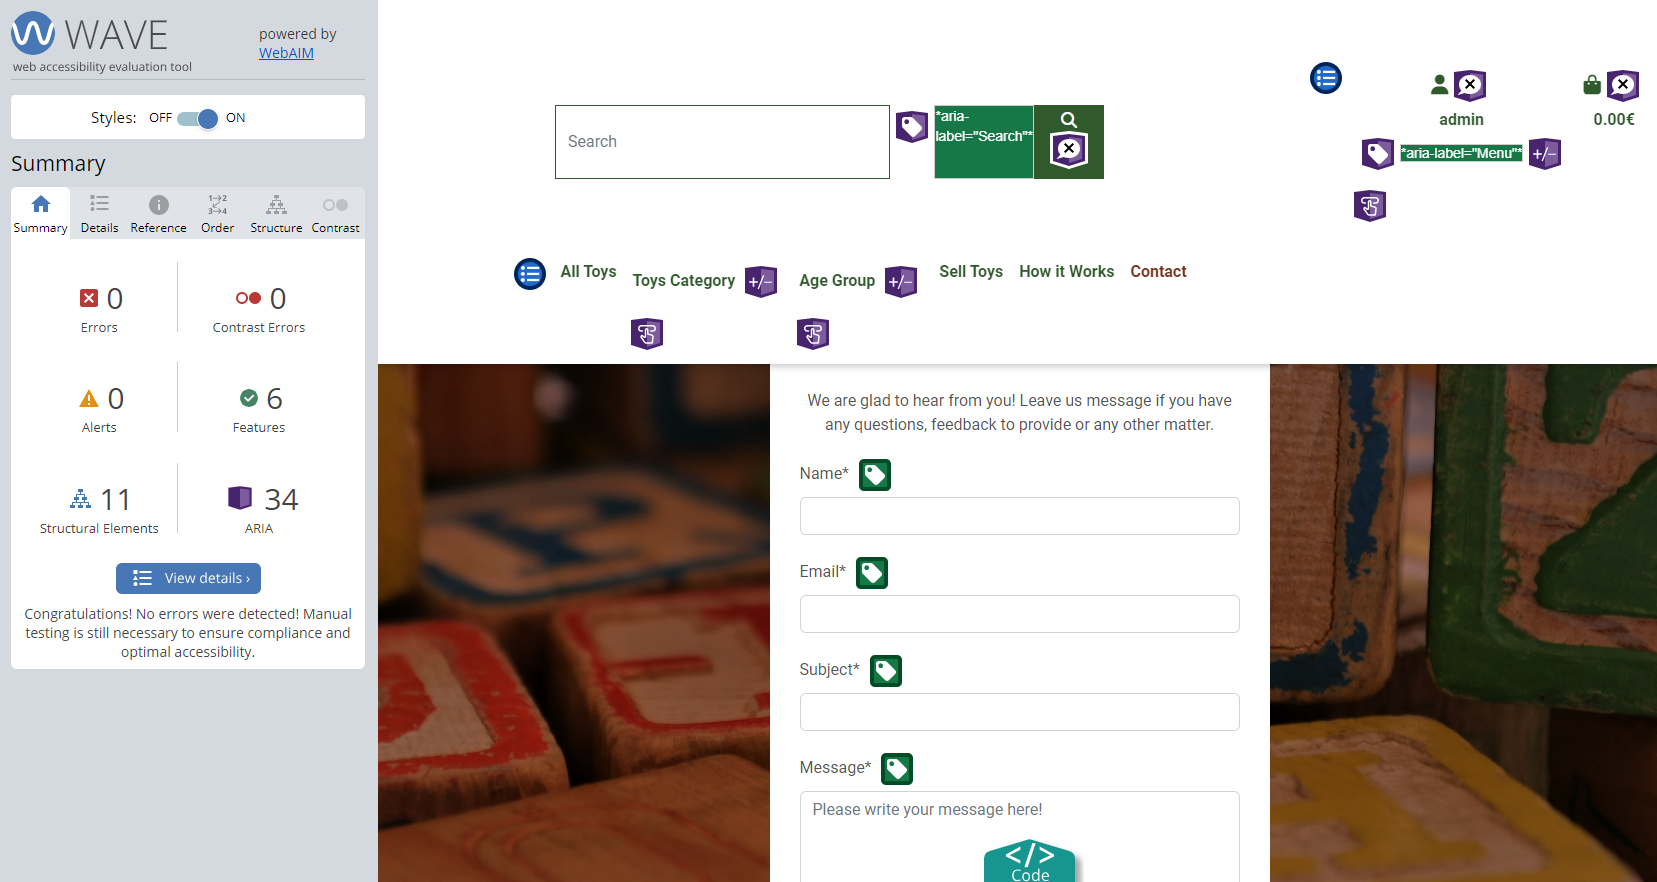
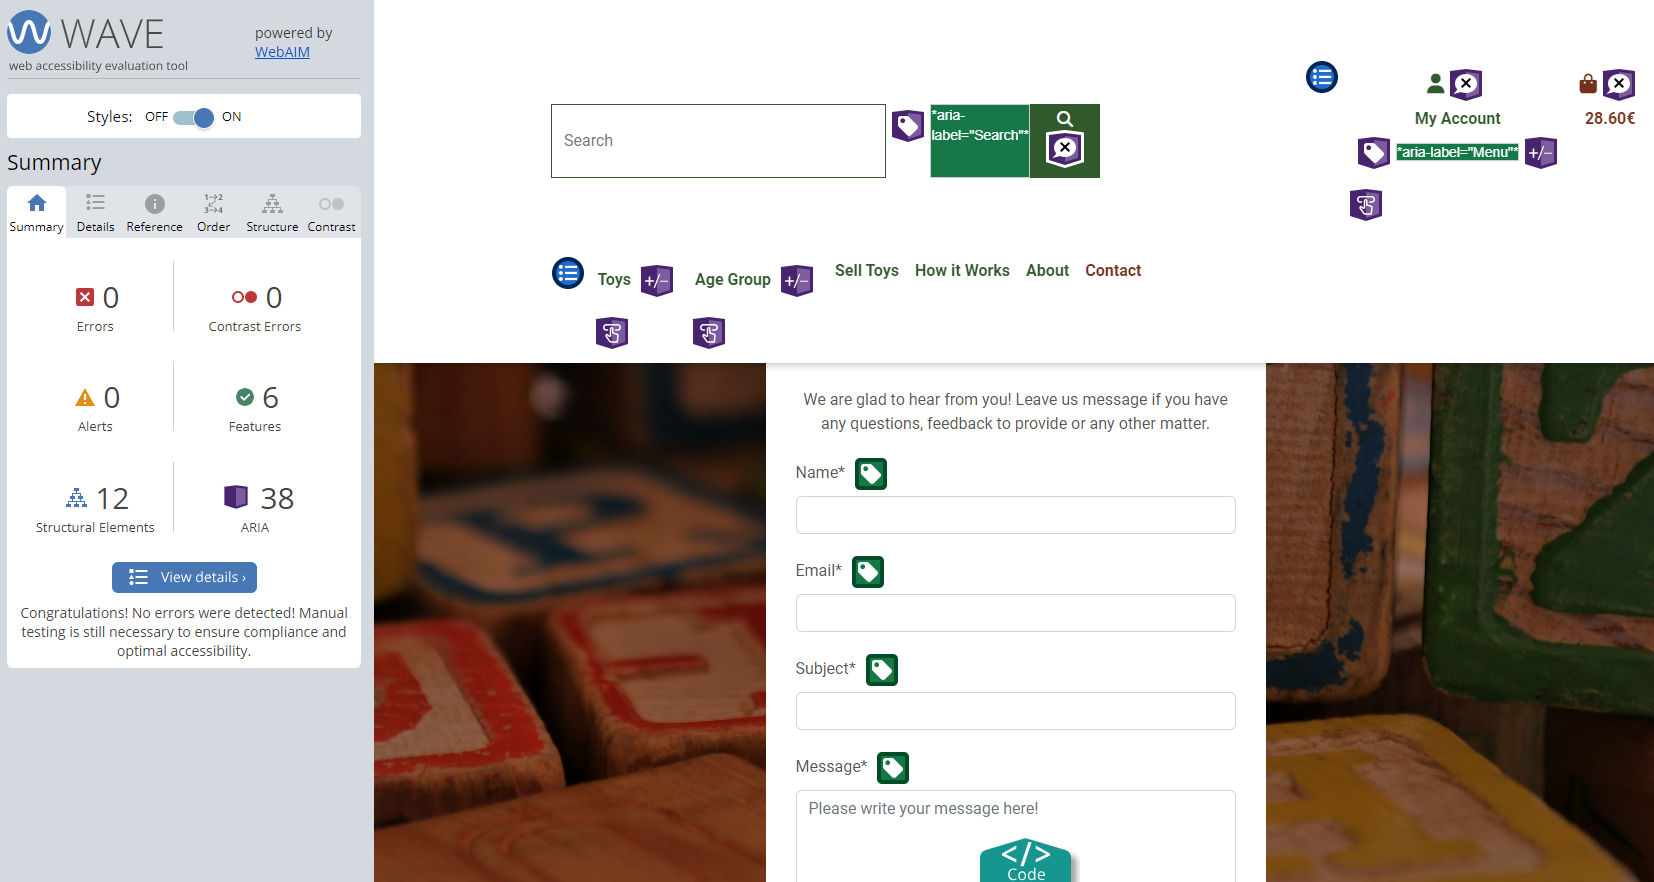
docs: document validation of contact and review pages

diff --git a/README.md b/README.md
@@ -158,6 +158,7 @@ The loopIToy project was developed using python Django framework. The project co
 The user inputs from all forms are stored in elephantSQL cloud-based database. There are seven database tables:
 - `toys_toys` stores information about each toy.
 - `toys_category` contains all toy categories.
+- `toys_brand` stores toys brand with homepage url.
 - `checkout_order` keeps order information and delivery information.
 - `checkout_orderlineitem` contains information about each toy in the order.
 - `profiles_userprofile` stores information about users, mainly default delivery information.
@@ -186,10 +187,13 @@ The final image by [Susan Holt Sumpson](https://unsplash.com/@shs521?utm_content
 The features of the web page were planned using Agile methodology to ensure Minimum Value Product and to address planned User Stories. The core features of this django-base webpage includes CRUD functionality for both Site Users and Site Owner, so that users can create, read, update and delete records. In additon, messages are displayed after each CRUD activity.
 
 The sites of e-shop are categorized into several groups:
-- **Landing & Informative Pages** includes Landing and How it Works Pages.
-- **Account & Profile Pages** includes all sites related to allauth app, i.e. authentication app, or profile app.
-- **Toys Pages** includes all pages related to toy app, e.g. overview of toys, toy detail.
-- **Purchasing Pages** includes both Shopping Bag and Checkout Pages. 
+- **Landing & Informative Pages** include Landing and How it Works Pages.
+- **Account & Profile Pages** include all sites related to allauth app, i.e. authentication app, or profile app.
+- **Toys Pages** include all pages related to toy app, e.g. overview of toys, toy detail.
+- **Purchasing Pages** include both Shopping Bag and Checkout Pages. 
+- **Hidden Pages and Polices** include all error hidden pages and pages with various polices, terms and conditions.
+- **Review Pages** include pages related to providing and presenting customer feedback
+- **Contact Page** includes contacting form.
 
 The entire web page is also designed to be responsive to ensure that the e-shop is properly displayed on different devices (e.g. a mobile, a desktop). The designed follows common best practice of e-shop development. Each site has mutual components, i.e. header with a navigation menu and footer. The mutual components ensure that the user to easily navigates through the content of the e-shop.
 
@@ -210,9 +214,8 @@ The entire web page is also designed to be responsive to ensure that the e-shop 
 
 - **How It Works Page** outlines the core sell procedure and offers users to register for selling toys.![How It Works Page](./docs/features/feature_how_it_works.PNG) 
 
-- **Contact Page** serves for contacting Site Owner and it displays the contact form. After sending a message a thank you page is displayed with the button to return home. ![Contact](./docs/features/features_contact.PNG)
-
 ### Account & Profile Pages
+
 The core authentication pages includes:
 - **Login Page** contains a form to log in via username or email into to the platform. Moreover, a user can choose to remember the login data. ![Login](./docs/features/feature_account_login.PNG)
 - **Sign Up Page** contains a form to create an account. User have to register using both username and email.![Sign Up](./docs/features/feature_account_register.PNG)
@@ -239,19 +242,31 @@ The core authentication pages includes:
 
 - **Checkout - Thank You Page** shows the summary order  with delivery and billing information. User is also informed about receiving the confirmation email. In order to return to Homepage, there is a button. ![Checkout - Thank you](./docs/features/features_checkout_success.png).
 
-### Review Pages
-- **Add Review Page** presents review form to send user opinion. [Add Review](./docs/features/feature_review_add.PNG)
 
 ### Hidden Error & Policy Pages
-- **Hidden Error Pages** displayes the error status code, name and message. In addition, there is a button to return to the landing page. There are three pages implemented for the unexpected situations: Permission denied (`status=403`), Page not found (`status=404`), Server Error (`status=500`). The layout of all hidden pages is the same - it displayes the message code, text and button to return home. ![Hidden Page](./docs/features/feature_hidden_page.PNG).
-- **Policy Pages** displays information about various polices and terms, such as Privacy Policy, Return & Refund, Terms & Conditions. The layout of such pages is the same. ![Polices](./docs/features/feature_polices.PNG)
+
+- **Hidden Error Pages** display the error status code, name and message. In addition, there is a button to return to the landing page. There are three pages implemented for the unexpected situations: Permission denied (`status=403`), Page not found (`status=404`), Server Error (`status=500`). The layout of all hidden pages is the same - it displayes the message code, text and button to return home. ![Hidden Page](./docs/features/feature_hidden_page.PNG).
+- **Policy Pages** display information about various polices and terms, such as Privacy Policy, Return & Refund, Terms & Conditions. The layout of such pages is the same. ![Polices](./docs/features/feature_polices.PNG)
+
+
+
+### Review Pages
+
+- **About Page** presents the idea behind the e-shop, button to send feedback. The page also displays customer feedbacks. ![About](./docs/features/feature_review_about.PNG)
+- **Add Review Page** presents review form to send user opinion. ![Add Review](./docs/features/feature_review_add.PNG)
+
+
+
+### Contact Page
+- **Contact Us Page** serves for contacting Site Owner and it displays the contact form. After sending a message a thank you toast message is displayed. ![Contact](./docs/features/features_contact.PNG)
 
 
 ### Future & Left Features
-- About Us
+- Extending the Site Owner functionality through the e-shop, managing brands, categories, etc.
+- Inhancing Sell Features by including the form to request money. In the form, User can which toys he/she wants to pay. There should be probably a new app and model that stores such information and in addition the bank data to send money.
+- Implementation of sorting functionality.
 - Login with Social Media using allauth.cocialaccount and django.contrib.site apps
-- Unique Form style
-- After sending contact form, user should be redirected to the home page.
+- Unique Form Style and general refactoring to have all views defined as class-based view.
 
 ## Business Model
 loopitoy is B2C type of e-commerce application as it sells second-hand toys. It is a platform which supports circular economy for toys. Customers can both buy and sell toys using secure single payment transactions.
@@ -286,6 +301,8 @@ A newsletter was implemented with MailChimp. The form to subscribe is visible on
 updates, promotions, or other relevant content from loopIToy.
 
 ## Testing & Validation
+The results of testing and validation are presented in the separated document, see [Testing & Validation](https://github.com/brodsa/loopitoy/blob/main/README_testing.md).
+
 
 ### Bugs
 Several bugs were releaved during the development. Bellow, all complex bugs that required more time, searching, trying to be solved:

diff --git a/README_testing.md b/README_testing.md
@@ -40,6 +40,8 @@ All pages were tested in terms of responsivness to ensure that the conent reacts
 | R20 | Terms & Conditions   | Click on Terms & Conditions link in footer. Inspect the webpage via DevTools and listed devices. Test the side for responsiveness and look at the layout.                                                                       | The content of the Terms & Conditions is readable on all listed devices                                                                                                                                                                                                                                    | PASS   |
 | R21 | Return & Refund      | Click on Return & Refund link in footer. Inspect the webpage via DevTools and listed devices. Test the side for responsiveness and look at the layout.                                                                          | The content of the Return & Refund is readable on all listed devices                                                                                                                                                                                                                                       | PASS   |
 | R22 | Hidden Pages         | Extend the url and add /test in the end. Inspect the webpage via DevTools and listed devices. Test the side for responsiveness and look at the layout of the hidden pages                                                       | The content of the Hidden Pages  is readable and fully displayed                                                                                                                                                                                                                                           | PASS   |
+| R23 | About Page         | Go to About in Navigation Menu. Inspect the webpage via DevTools and listed devices. Test the side for responsiveness and look at the layout of text, image, button and review boxes.                                                       | The content of the page is center and displayed in a column on small devices. On large, the picture is shown next to the text. The boxes are in rows.                                                                                                                                                                                                                                           | PASS   |
+| R24 | Add Review Page         | Go to About in Navigation Menu and click on Send Review. Inspect the webpage via DevTools and listed devices. Test the side for responsiveness and look the review form                                                       | The form is centered and readable on all devices.                                                                                                                                                                                                                                           | PASS   |
 
 
 [Back to the content](#testing--validation)
@@ -190,7 +192,7 @@ The webpage was validated from several perspectives:
 
 
 ### HTML 
-The [Nu Html Checker](https://validator.w3.org/nu/) web-based tool by W3 was used to validate the pages of the webpage. The source code of pages was checked directly via text input or  via provided page URL. The validation detected several errors in the snippet code for the newsletter subscribtion. This code was copied directly from [mailchimp](https://us14.admin.mailchimp.com/). The below detailed reports ignore the errors from mailchimp tool:
+The [Nu Html Checker](https://validator.w3.org/nu/) web-based tool by W3 was used to validate the pages of the webpage. The source code of pages was checked directly via text input or  via provided page URL. The validation detected several errors in the snippet code for the newsletter subscribtion. This code was copied directly from [mailchimp](https://us14.admin.mailchimp.com/). The below detailed reports ignore the [errors from mailchimp tool](./docs/testing/html/html_newsletter.PNG):
 
 | Page Group | Page | Report | Results |
 |------------|------|--------|---------|
@@ -215,6 +217,9 @@ The [Nu Html Checker](https://validator.w3.org/nu/) web-based tool by W3 was use
 | | Return & Refund | [On-line Report](https://validator.w3.org/nu/?doc=https%3A%2F%2Floopitoy-2943fdc3b2bc.herokuapp.com%2Freturn-and-refund) | no errors |
 | | Terms & Conditions | [On-line Report](https://validator.w3.org/nu/?doc=https%3A%2F%2Floopitoy-2943fdc3b2bc.herokuapp.com%2Fterms-and-conditions) | no errors |
 | Review | Add Review Page | [Report](./docs/testing/html/html_review_add.PNG)| no errors |
+|  | About & Review Page | [Report](./docs/testing/html/html_review_about.PNG)| no errors |
+|  Contact | Contact Us Page | [Report](./docs/testing/html/html_contact.PNG)| no errors |
+
 
 [Back to the content](#testing--validation)
 
@@ -307,6 +312,8 @@ The chrome extension [WAVE Evaluation Tool](https://chromewebstore.google.com/de
 |  | Detail Toy  Page         | <img src="./docs/testing/wave/wave_toydetail.PNG" alt="wave_toy_detail" width="200"/> | no error |
 |  | Toys Overview  Page         | <img src="./docs/testing/wave/wave_toy_overview.PNG" alt="wave_toy_overview" width="200"/> | no error |
 | Review Pages | Add Review Page         | <img src="./docs/testing/wave/wave_review_add.PNG" alt="wave_review_add" width="200"/> | no error |
+|  | About & Review Page         | <img src="./docs/testing/wave/wave_review_about.PNG" alt="wave_review_about" width="200"/> | no error |
+| Contact Pages  | Contact Us Page         | <img src="./docs/testing/wave/wave_contact.PNG" alt="wave_contact" width="200"/> | no error |
 
 [Back to the content](#testing--validation)
 
